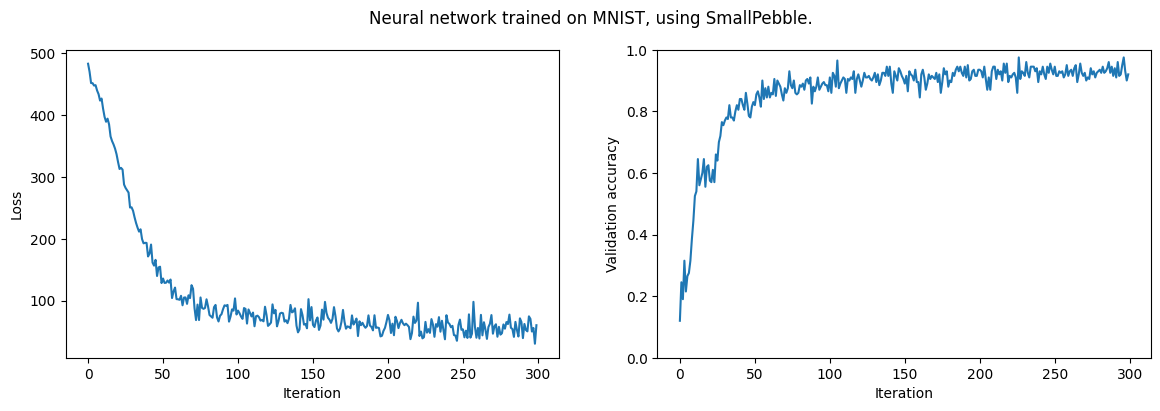
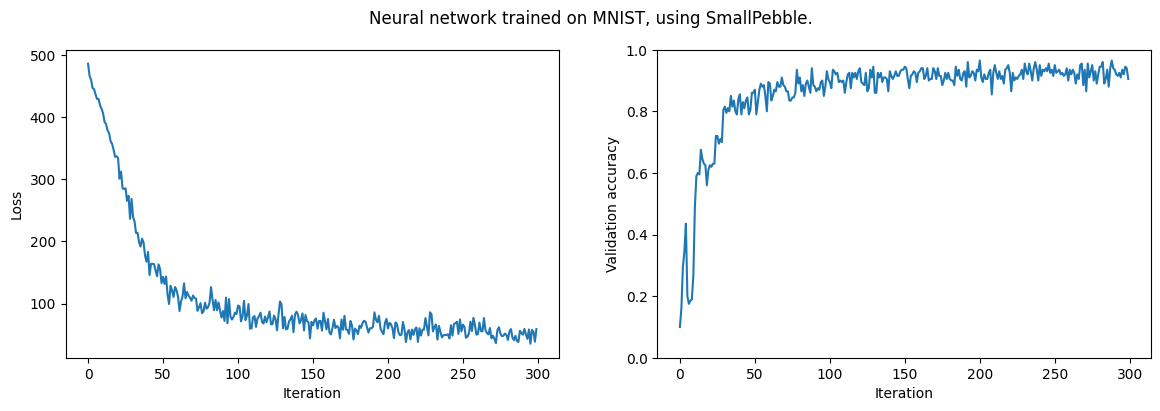
docs: fix readme render

diff --git a/README.md b/README.md
@@ -55,7 +55,7 @@ When `get_gradients` is called, autodiff is performed by traversing the graph ba
 ```python
 import matplotlib.pyplot as plt
 import numpy as np
-from tqdm.auto import tqdm
+from tqdm import tqdm
 import smallpebble as sp
 from smallpebble.datasets import load_data
 ```
@@ -168,11 +168,10 @@ plt.plot(validation_acc)
 plt.show()
 ```
 
+    100%|██████████| 300/300 [00:01<00:00, 162.70it/s]
 
-      0%|          | 0/300 [00:00<?, ?it/s]
 
-
-    Final validation accuracy: 0.932
+    Final validation accuracy: 0.925
 
 
 
@@ -324,16 +323,17 @@ plt.plot(validation_acc)
 plt.show()
 ```
 
+    100%|██████████| 100/100 [01:21<00:00,  1.22it/s]
 
-      0%|          | 0/100 [00:00<?, ?it/s]
+    Final validation accuracy: 0.32890625
 
 
-    Final validation accuracy: 0.3109375
+    
 
 
 
     
-![png](README_files/README_13_2.png)
+![png](README_files/README_13_3.png)
     
 
 
@@ -382,14 +382,14 @@ print('grad_c:\n', grad_c)
 ```
 
     y.array:
-     [[1.02460932 0.76807643]
-     [1.27444666 0.59825055]]
+     [[0.60782    0.42564186]
+     [0.7267007  0.58429177]]
     grad_a:
-     [[0.68886369 0.86822053]
-     [0.65274075 0.58280287]]
+     [[0.56427934 0.10335591]
+     [0.59113928 0.88864797]]
     grad_b:
-     [[0.47640529 0.28786036]
-     [0.88552101 0.13743994]]
+     [[0.29640298 0.22455233]
+     [0.48403953 0.20464652]]
     grad_c:
      [2. 2.]
 
@@ -409,7 +409,7 @@ print(lazy_node)
 print(lazy_node.run())
 ```
 
-    <smallpebble.smallpebble.Lazy object at 0x116f3ccd0>
+    <smallpebble.smallpebble.Lazy object at 0x10ddb36d0>
     3
 
 
@@ -421,7 +421,7 @@ print(y)
 print(y.run())
 ```
 
-    <smallpebble.smallpebble.Lazy object at 0x116f3f8e0>
+    <smallpebble.smallpebble.Lazy object at 0x10ddb31c0>
     10
 
 
@@ -440,8 +440,8 @@ print('result.array:\n', result.array)
 ```
 
     result.array:
-     [[2.53093351 0.90162336]
-     [5.61788051 1.97511828]]
+     [[1.17299296 0.4071    ]
+     [3.22816648 1.14885566]]
 
 
 You can use .run() as many times as you like. 
@@ -456,8 +456,8 @@ print('result.array:\n', result.array)
 ```
 
     result.array:
-     [[25.30933514  9.01623359]
-     [56.17880514 19.75118278]]
+     [[11.72992963  4.07099996]
+     [32.2816648  11.4885566 ]]
 
 
 Finally, let's compute gradients:
@@ -491,6 +491,6 @@ for learnable in learnables:
     print(learnable)
 ```
 
-    <smallpebble.smallpebble.Variable object at 0x116bfb520>
-    <smallpebble.smallpebble.Variable object at 0x116bf9690>
+    <smallpebble.smallpebble.Variable object at 0x10dd7acb0>
+    <smallpebble.smallpebble.Variable object at 0x10dd78130>
 
